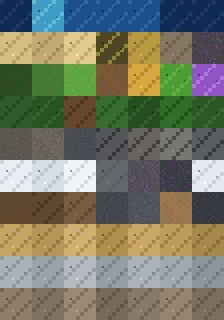
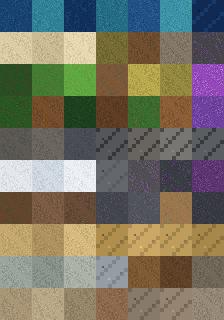
Paint sand, wood, leaves, snow, and the other land tiles and pick them per column.

diff --git a/.agent-checkpoint.md b/.agent-checkpoint.md
@@ -124,3 +124,4 @@
 - 2026-10-14 16:51 -07:00 — Rock detail (7c): the 7b check only meshed grass and dirt, so stone, crystal vein, and cave stone stayed one cell and still passed. Those cells are the old stripe (200 marks). verify_block_texture_variants now builds those chunks on the surface mesh and fails: stone tops 1 sides 1, ore 1/1, cave 1/1, cells (0,4) (6,1) (4,4) are a stripe. Crystal stays one cell. Next: paint three tiles for each family and pick them per column.
 - 2026-10-14 16:54 -07:00 — Rock detail (7c): stone, ore, and cave rock each have three tiles. A column hash picks the cell on the surface mesh, including sides. Bottoms stay the underside cell. Crystal stays one cell. Headless verify_block_texture_variants printed All block texture variant tests OK (stone 3/3, ore 3/3, cave 3/3). Grid and atlas style also exited 0. Next: VERIFY.md quick check.
 - 2026-10-14 16:55 -07:00 — Rock detail (7c): VERIFY.md quick check passed. Import exit 0, no script errors. Stability exit 0 (All stability/perf tests OK). Contracts exit 0 (All content contract tests OK). Evidence rock7c-165256. Stone, ore, and cave rock each pick one of three tiles on the surface mesh. Crystal stays one cell. Not pushed. Next: none for this item.
+- 2026-10-14 17:03 -07:00 — Block textures (7d): the grid check misses the diagonal 4px band because every row has the same brightness, and the variant check never meshed sand, leaves, wood, snow, or the other land families. verify_block_texture_variants now builds those chunks and fails (sand tops 1, cell (0,7) stripe, crystal cell (6,2) stripe). Next: paint three tiles per family and pick them on the mesh.

diff --git a/0.2.8/docs/TEXTURE_MANIFEST.md b/0.2.8/docs/TEXTURE_MANIFEST.md
@@ -4,7 +4,7 @@ Slots: 193. With art: 180. Missing: 0. Placeholder: 13.
 
 Generated by `tools/export_texture_manifest.gd`. Animation frames are 1 unless a real sheet is authored. Scale is 1 when the slot is not a live node.
 
-Grass tops (0,2) (1,2) (2,2) and dirt (3,2) (0,6) (5,6) are column variants. (5,6) is the third dirt cell. Stone (0,4) (1,4) (2,4), ore (6,1) (4,5) (5,5), and cave rock (3,6) (4,6) (6,6) are column variants. Crystal, shard ground, and scar stay one cell.
+Grass tops (0,2) (1,2) (2,2) and dirt (3,2) (0,6) (5,6) are column variants. (5,6) is the third dirt cell. Stone (0,4) (1,4) (2,4), ore (6,1) (4,5) (5,5), and cave rock (3,6) (4,6) (6,6) are column variants. Sand (0,7) (1,7) (2,7), beach (0,1) (1,1) (2,1), leaves (0,3) (2,3) (4,3), wood (1,3) (3,3) (5,3), snow (0,5) (1,5) (2,5), tundra (0,8) (1,8) (2,8), basin (0,9) (1,9) (2,9), valley (1,6) (2,6) (3,9), dry grass (3,1) (4,2) (5,2), farmland (4,1) (4,8) (5,8), path (5,1) (6,8) (6,9), ocean (0,0) (2,0) (4,0), and river (1,0) (3,0) (5,0) are column variants. Crystal (6,2), shard ground (6,3), and scar (6,5) stay one cell.
 
 | path | expected size | scale | frames | category | art | batch1 | appears in |
 | --- | --- | --- | --- | --- | --- | --- | --- |
